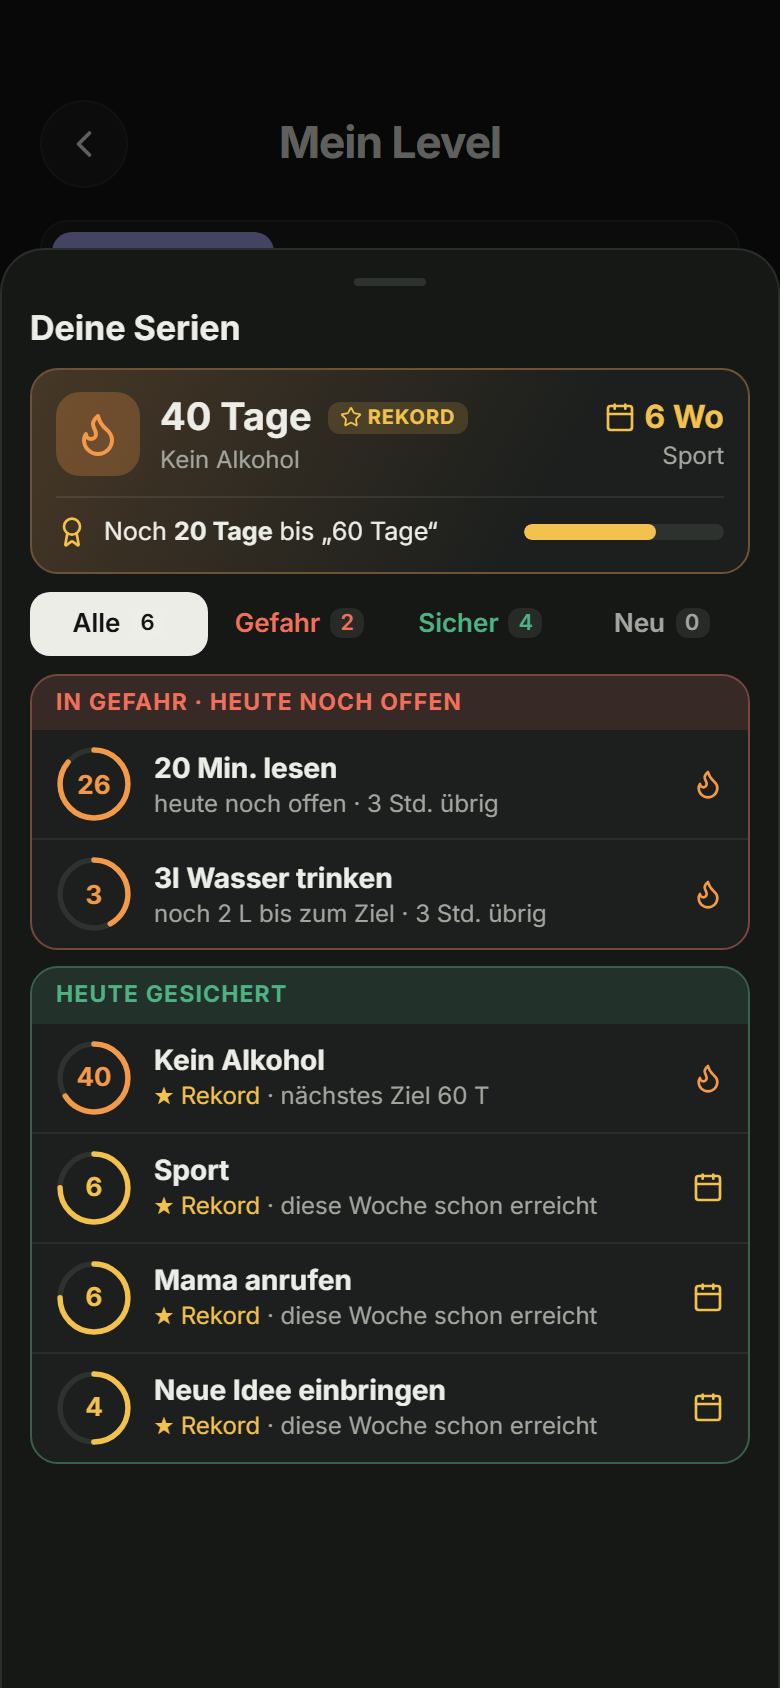
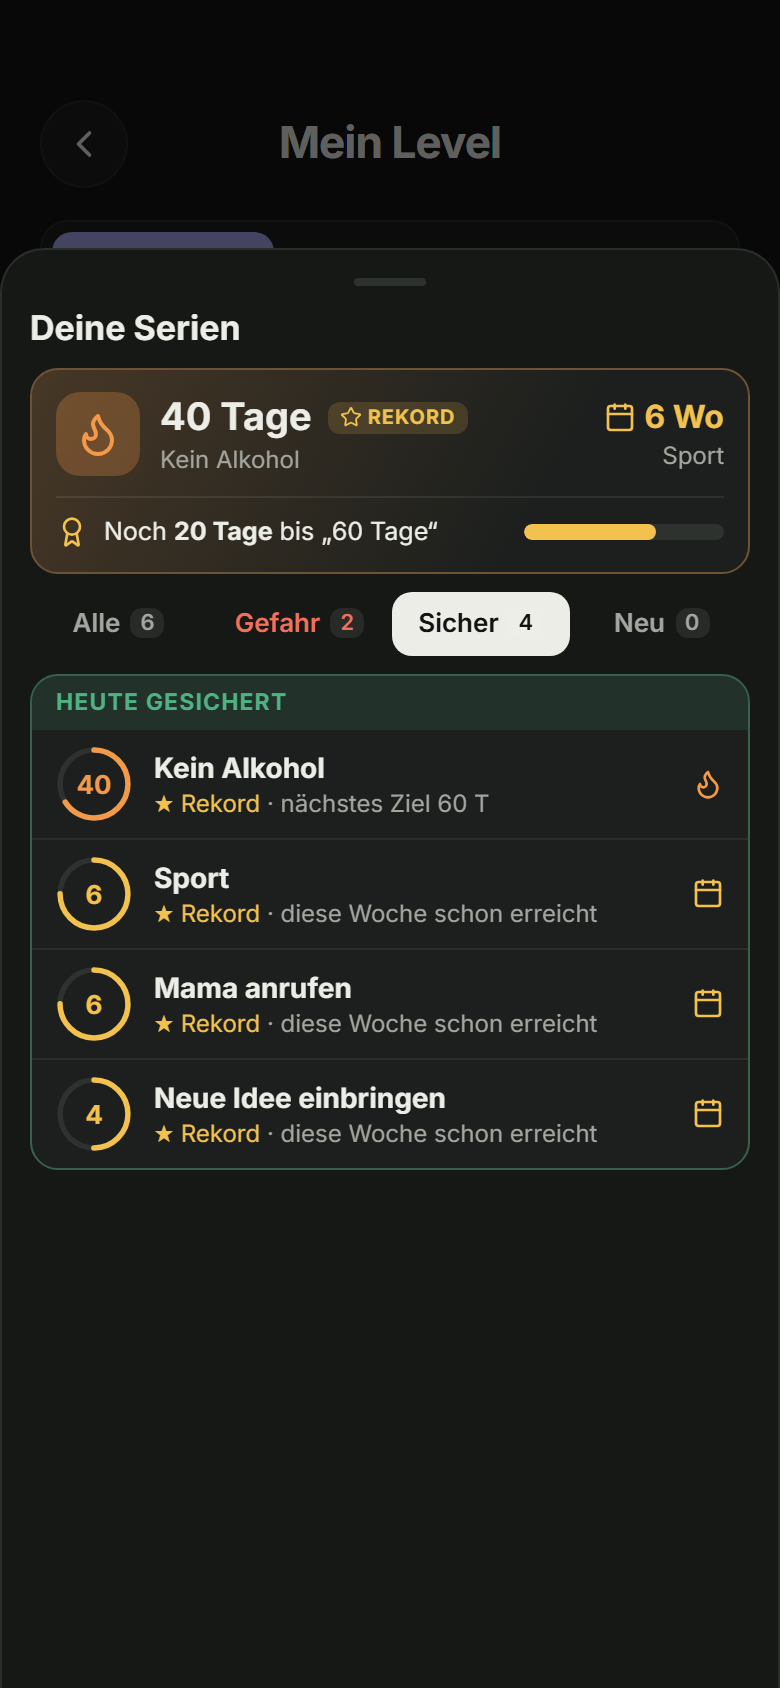
docs: calmer screenshots in the README
Folded cards on Today, one filter in the streak sheet and the timeline instead of the full habit page.

diff --git a/README.md b/README.md
@@ -6,7 +6,7 @@ A lightweight, self-hosted habit tracker with rewards. Build good habits, break 
   <img src="docs/screenshots/01-Heute.png" width="200" alt="Today with level card and habits">
   <img src="docs/screenshots/02-Mein-Level.png" width="200" alt="Level statistics">
   <img src="docs/screenshots/03-Serien.png" width="200" alt="Streak overview">
-  <img src="docs/screenshots/04-Muster-Tipps.png" width="200" alt="Habit week view with patterns and tips">
+  <img src="docs/screenshots/04-Verlauf.png" width="200" alt="Timeline of a day">
 </p>
 
 The screenshots show the app with demo data. The UI language is German.
